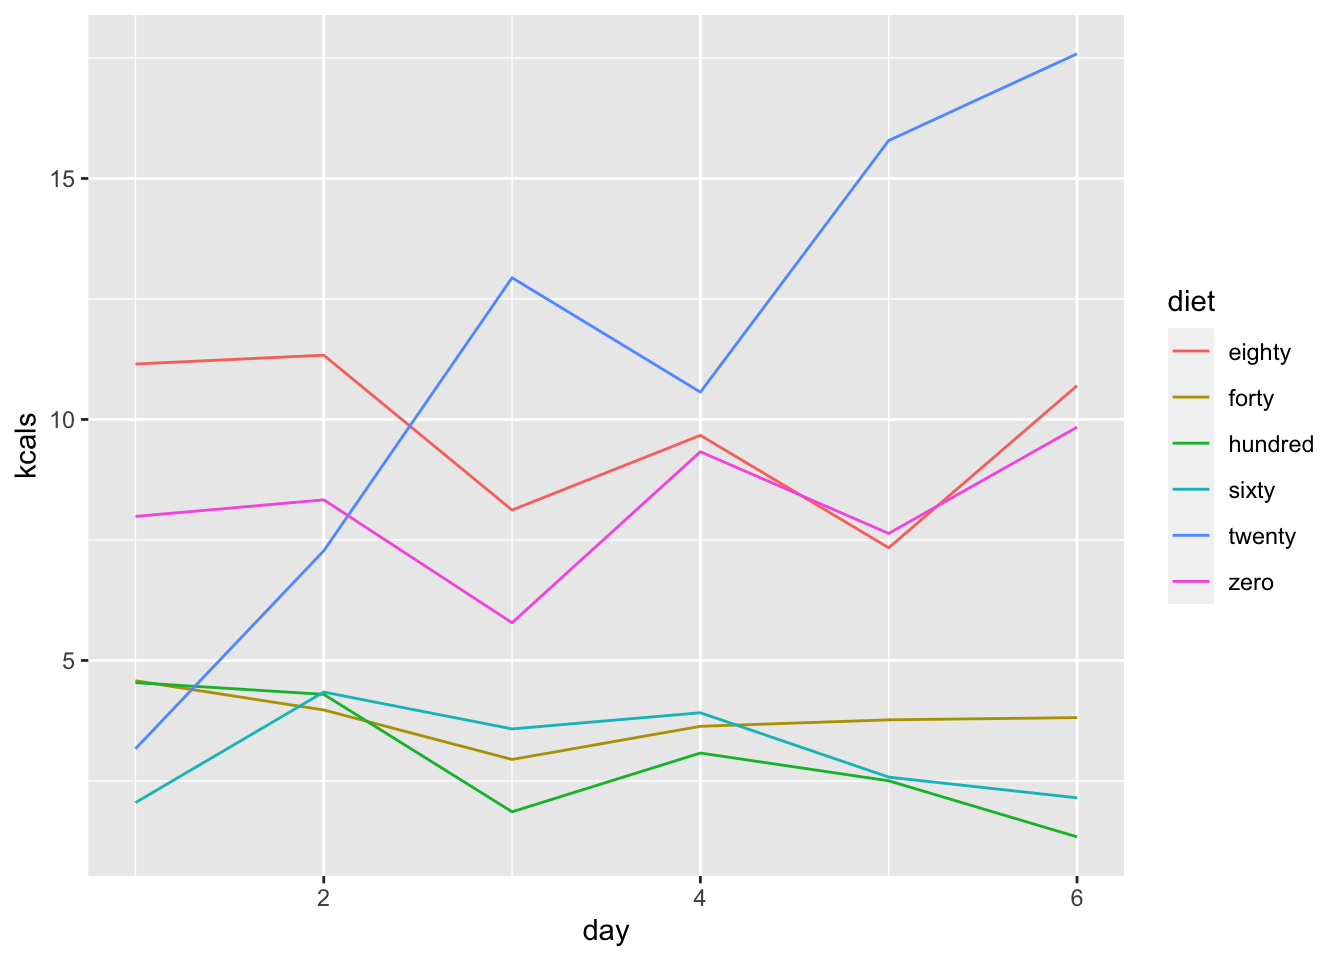
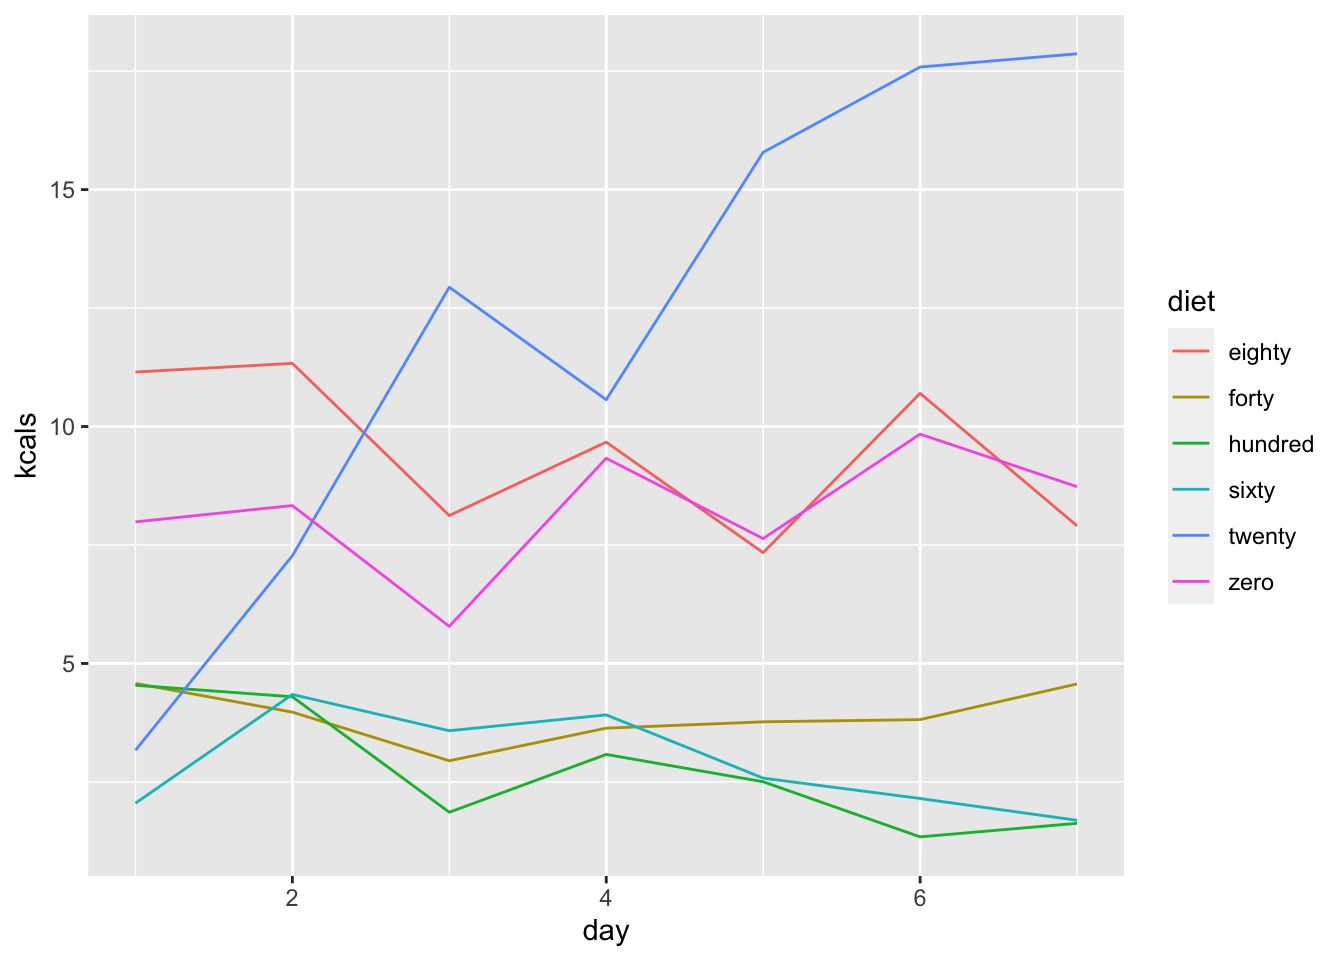
Finished portfolio 9!

diff --git a/docs/p09.html b/docs/p09.html
@@ -305,16 +305,8 @@ present my data graphically</p>
 <blockquote>
 <p>Let’s get everything loaded and prepped:</p>
 </blockquote>
-<pre class="r"><code>library(tidyverse)</code></pre>
-<pre><code>## ── Attaching packages ─────────────────────────────────────── tidyverse 1.3.2 ──
-## ✔ ggplot2 3.4.0     ✔ purrr   1.0.1
-## ✔ tibble  3.2.1     ✔ dplyr   1.1.2
-## ✔ tidyr   1.3.0     ✔ stringr 1.5.0
-## ✔ readr   2.1.3     ✔ forcats 0.5.2
-## ── Conflicts ────────────────────────────────────────── tidyverse_conflicts() ──
-## ✖ dplyr::filter() masks stats::filter()
-## ✖ dplyr::lag()    masks stats::lag()</code></pre>
-<pre class="r"><code>library(readxl)</code></pre>
+<pre class="r"><code>library(tidyverse)
+library(readxl)</code></pre>
 <pre class="r"><code>day_one &lt;- read_excel(&quot;/Users/lawilson1999/Desktop/Data Science Spring 2023/Portfolio/p03/IC Diet Choice.xlsx&quot;,
                       sheet = 10,
                       col_names = TRUE)
@@ -336,8 +328,8 @@ day_six &lt;- read_excel(&quot;/Users/lawilson1999/Desktop/Data Science Spring 2
 day_seven &lt;- read_excel(&quot;/Users/lawilson1999/Desktop/Data Science Spring 2023/Portfolio/p03/IC Diet Choice.xlsx&quot;,
                       sheet = 16,
                       col_names = TRUE)
-avg_kcal &lt;- day_seven &lt;- read_excel(&quot;/Users/lawilson1999/Desktop/Data Science Spring 2023/Portfolio/p03/IC Diet Choice.xlsx&quot;,
-                      sheet = 9,
+avg_kcal &lt;- read_excel(&quot;/Users/lawilson1999/Desktop/Data Science Spring 2023/Portfolio/p03/IC Diet Choice.xlsx&quot;,
+                      sheet = 17,
                       col_names = TRUE)
 
 columns &lt;- c(&#39;rat&#39;, &#39;zero&#39;, &#39;twenty&#39;, &#39;forty&#39;, &#39;sixty&#39;, &#39;eighty&#39;, &#39;hundred&#39;, &#39;water&#39;)
@@ -403,6 +395,110 @@ all_days_kcal_long %&gt;%
   ggplot(aes(x = day, y = kcals, color = diet)) +
   geom_line()</code></pre>
 <p><img src="p09_files/figure-html/change-over-time-1.png" width="672" /></p>
+<blockquote>
+<p>So it looks like intake was fairly constant across days for all diets
+except for the 20% sugar diet, which seems to have increased across days
+on average. I wonder if that pattern actually holds up for the
+individual rats if I look at their data separately:</p>
+</blockquote>
+<pre class="r"><code>all_days_kcal_long %&gt;%
+  filter(rat != &quot;Avg&quot;) %&gt;%
+  filter(diet != &quot;water&quot;) %&gt;%
+  ggplot(aes(x = day, y = kcals, color = diet)) +
+  geom_line() +
+  facet_wrap(~rat)</code></pre>
+<p><img src="p09_files/figure-html/change-over-time-for-individual-1.png" width="672" /></p>
+<blockquote>
+<p>So it seems like there. were a few individuals whose consumption of
+the 20% diet spiked toward the end, but nothing too crazy. I still may
+double check my data entry though, just to make sure there weren’t any
+mistakes there.</p>
+</blockquote>
+<blockquote>
+<p>Finally, let’s see if I like the look of <code>geom_smooth()</code>
+better than <code>geom_line()</code>:</p>
+</blockquote>
+<pre class="r"><code>all_days_kcal_long %&gt;%
+  filter(rat == &quot;Avg&quot;) %&gt;%
+  filter(diet != &quot;water&quot;) %&gt;%
+  ggplot(aes(x = day, y = kcals, color = diet)) +
+  geom_smooth(se = FALSE)</code></pre>
+<pre><code>## `geom_smooth()` using method = &#39;loess&#39; and formula = &#39;y ~ x&#39;</code></pre>
+<p><img src="p09_files/figure-html/geom-smooth-1.png" width="672" /></p>
+<blockquote>
+<p>Purely aesthetically I like this better, but for the sake of accuracy
+I would probably include the line graph in my actual thesis or in a
+paper.</p>
+</blockquote>
+</div>
+<div id="favorite-diet" class="section level2">
+<h2>Favorite Diet</h2>
+<blockquote>
+<p>Next I want to try out ways to represent the preferred diet across
+animals, which was the main thing this part of the experiment was
+seeking to figure out. The most natural way to show this would probably
+be a bar graph:</p>
+</blockquote>
+<pre class="r"><code>avg_kcal_long %&gt;%
+  filter(rat == &quot;Avg&quot;) %&gt;%
+  filter(diet != &quot;water&quot;) %&gt;%
+  ggplot(aes(x = factor(diet, level=c(&#39;zero&#39;, &#39;twenty&#39;, &#39;forty&#39;, &#39;sixty&#39;, &#39;eighty&#39;, &#39;hundred&#39;)), y = kcals, fill = diet)) +
+  geom_bar(stat = &quot;identity&quot;, alpha = 0.7)</code></pre>
+<p><img src="p09_files/figure-html/favorite-diet-bar-graph-1.png" width="672" /></p>
+<blockquote>
+<p>Generally I like this, but I wonder if there wouldn’t be a more
+creative way of showing the same thing. A box plot, maybe?</p>
+</blockquote>
+<pre class="r"><code>avg_kcal_long %&gt;%
+  filter(rat != &quot;Avg&quot;) %&gt;%
+  filter(diet != &quot;water&quot;) %&gt;%
+  ggplot(aes(x = factor(diet, level=c(&#39;zero&#39;, &#39;twenty&#39;, &#39;forty&#39;, &#39;sixty&#39;, &#39;eighty&#39;, &#39;hundred&#39;)), y = kcals, fill = diet)) +
+  geom_boxplot(alpha = 0.7)</code></pre>
+<p><img src="p09_files/figure-html/favorite-diet-boxplot-1.png" width="672" /></p>
+<blockquote>
+<p>I don’t like the way this looks, but it does show well that there was
+much more variability in some of the diets than others. Again, perhaps
+reason to double check my data entry.</p>
+</blockquote>
+<blockquote>
+<p>A violin plot?</p>
+</blockquote>
+<pre class="r"><code>avg_kcal_long %&gt;%
+  filter(rat != &quot;Avg&quot;) %&gt;%
+  filter(diet != &quot;water&quot;) %&gt;%
+  ggplot(aes(x = factor(diet, level=c(&#39;zero&#39;, &#39;twenty&#39;, &#39;forty&#39;, &#39;sixty&#39;, &#39;eighty&#39;, &#39;hundred&#39;)), y = kcals, fill = diet)) +
+  geom_violin(alpha = 0.7)</code></pre>
+<p><img src="p09_files/figure-html/violin-1.png" width="672" /> &gt; I
+like these a lot! Nice to look at while also actually converying
+information. Maybe adding boxplots to these violin plots (or quartiles,
+or just the points themselves) would add something as well:</p>
+<pre class="r"><code># add boxplots to violins
+avg_kcal_long %&gt;%
+  filter(rat != &quot;Avg&quot;) %&gt;%
+  filter(diet != &quot;water&quot;) %&gt;%
+  ggplot(aes(x = factor(diet, level=c(&#39;zero&#39;, &#39;twenty&#39;, &#39;forty&#39;, &#39;sixty&#39;, &#39;eighty&#39;, &#39;hundred&#39;)), y = kcals, fill = diet)) +
+  geom_violin(alpha = 0.7) +
+  geom_boxplot(alpha = 0.7, width = 0.1)</code></pre>
+<p><img src="p09_files/figure-html/violin-plots-plus-1.png" width="672" /></p>
+<pre class="r"><code># add quartiles
+avg_kcal_long %&gt;%
+  filter(rat != &quot;Avg&quot;) %&gt;%
+  filter(diet != &quot;water&quot;) %&gt;%
+  ggplot(aes(x = factor(diet, level=c(&#39;zero&#39;, &#39;twenty&#39;, &#39;forty&#39;, &#39;sixty&#39;, &#39;eighty&#39;, &#39;hundred&#39;)), y = kcals, fill = diet)) +
+  geom_violin(alpha = 0.7, draw_quantiles = c(0.25, 0.5, 0.75))</code></pre>
+<p><img src="p09_files/figure-html/violin-plots-plus-2.png" width="672" /></p>
+<pre class="r"><code># add points
+avg_kcal_long %&gt;%
+  filter(rat != &quot;Avg&quot;) %&gt;%
+  filter(diet != &quot;water&quot;) %&gt;%
+  ggplot(aes(x = factor(diet, level=c(&#39;zero&#39;, &#39;twenty&#39;, &#39;forty&#39;, &#39;sixty&#39;, &#39;eighty&#39;, &#39;hundred&#39;)), y = kcals, fill = diet)) +
+  geom_violin(alpha = 0.7) +
+  geom_point()</code></pre>
+<p><img src="p09_files/figure-html/violin-plots-plus-3.png" width="672" /></p>
+<blockquote>
+<p>I don’t like the box plots, but the quartiles and points both have
+promise!</p>
+</blockquote>
 </div>
 
 
